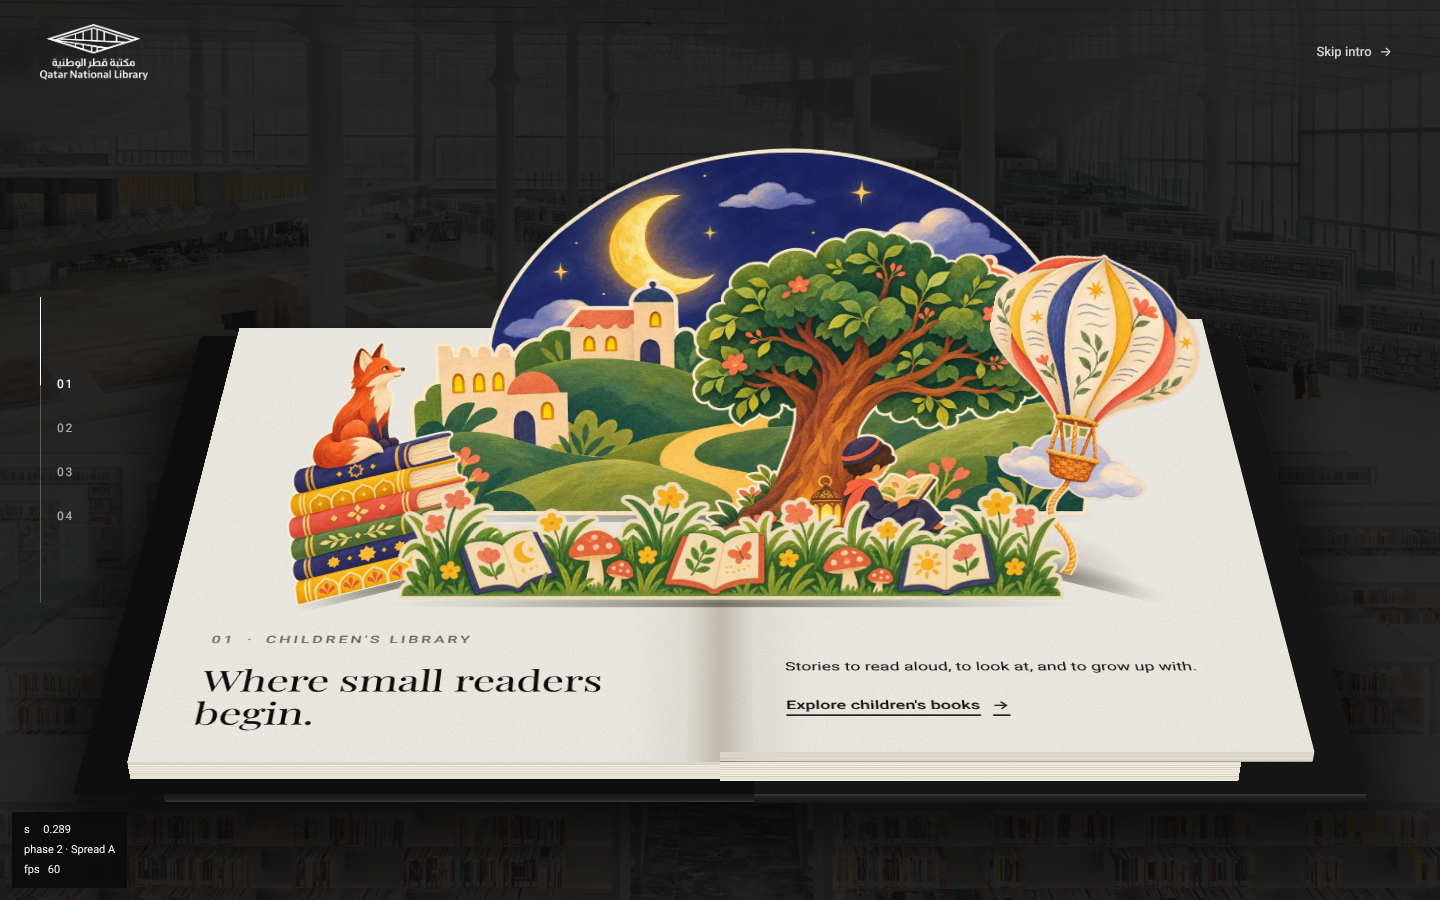
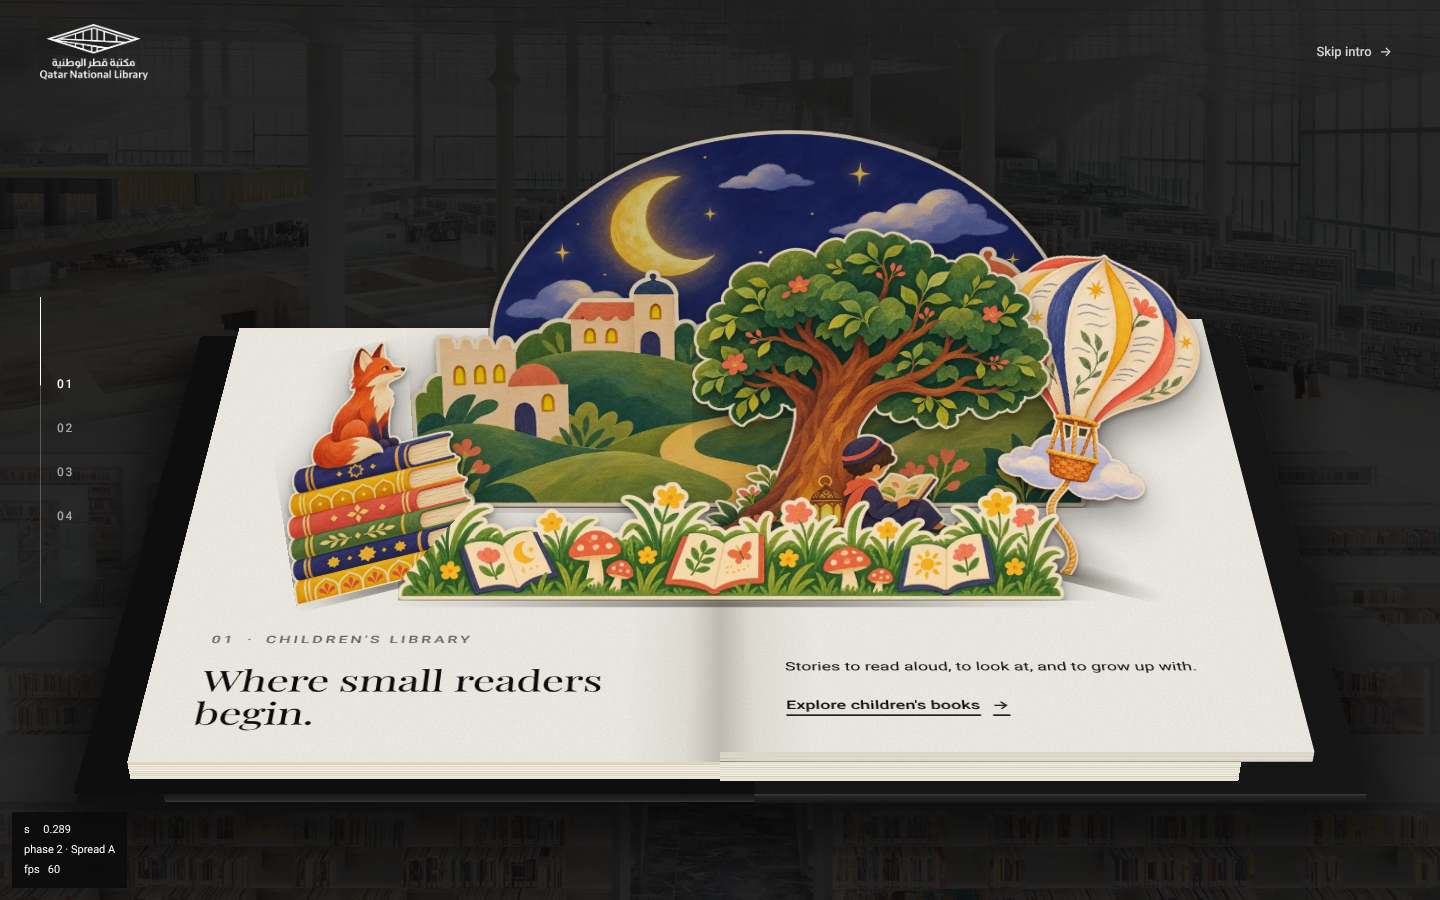
Layer depth: inter-layer shadows and back-to-front shading; Spread B artwork
Claude-Session: https://claude.ai/code/session_01NJhkhHsdtjkGgkng91Ef6F

Changed region(s): [[0.2188, 0.1244, 0.8438, 0.6844], [0.1875, 0.4978, 0.2188, 0.5911]]

diff --git a/src/data/spreads.ts b/src/data/spreads.ts
@@ -49,7 +49,8 @@ export interface Spread {
 }
 
 /** height / width of each supplied artwork file after trimming (printed by `npm run assets`) */
-const R = { A1: 797 / 1200, A2: 519 / 1200, A3: 659 / 660, A4: 900 / 680, A5: 1200 / 725, A6: 214 / 1200 }
+const R = { A1: 797 / 1200, A2: 519 / 1200, A3: 659 / 660, A4: 900 / 680, A5: 1200 / 725, A6: 214 / 1200,
+  B2: 594 / 1200, B3: 1200 / 790, B4: 900 / 677, B5: 780 / 585, B6: 221 / 1200 }
 
 export const spreads: Spread[] = [
   {
@@ -63,8 +64,8 @@ export const spreads: Spread[] = [
     body_ar: null,
     link: { href: '#children', label_en: "Explore children's books", label_ar: null },
     layers: [
-      { src: '/popups/spreadA-layer1.webp', base: 0.45, x: 0.12, w: 1.1, ratio: R.A1, stand: 88, mobile: true },
-      { src: '/popups/spreadA-layer2.webp', base: 0.51, x: 0.06, w: 1.26, ratio: R.A2, stand: 84 },
+      { src: '/popups/spreadA-layer1.webp', base: 0.4, x: 0.12, w: 1.1, ratio: R.A1, stand: 88, mobile: true },
+      { src: '/popups/spreadA-layer2.webp', base: 0.49, x: 0.06, w: 1.26, ratio: R.A2, stand: 84 },
       { src: '/popups/spreadA-layer3.webp', base: 0.58, x: 0.27, w: 0.64, ratio: R.A3, stand: 82, mobile: true },
       { src: '/popups/spreadA-layer4.webp', base: 0.64, x: -0.6, w: 0.36, ratio: R.A4, stand: 80, yaw: -22 },
       { src: '/popups/spreadA-layer5.webp', base: 0.64, x: 0.62, w: 0.38, ratio: R.A5, stand: 80, yaw: 22 },
@@ -91,9 +92,12 @@ export const spreads: Spread[] = [
       lines_ar: null,
     },
     layers: [
-      { src: '/popups/spreadB-layer1.svg', base: 0.45, x: 0.1, w: 1.12, ratio: 420 / 880, stand: 86, mobile: true },
-      { src: '/popups/spreadB-layer2.svg', base: 0.54, x: -0.12, w: 0.63, ratio: 300 / 440, stand: 76, mobile: true },
-      { src: '/popups/spreadB-layer3.svg', base: 0.61, x: 0.2, w: 0.43, ratio: 340 / 320, stand: 72 },
+      // layer 1 (shelf-wall backdrop) not yet supplied
+      { src: '/popups/spreadB-layer2.webp', base: 0.42, x: 0.06, w: 1.2, ratio: R.B2, stand: 86, mobile: true },
+      { src: '/popups/spreadB-layer3.webp', base: 0.52, x: 0.1, w: 0.46, ratio: R.B3, stand: 82, mobile: true },
+      { src: '/popups/spreadB-layer4.webp', base: 0.58, x: -0.6, w: 0.36, ratio: R.B4, stand: 80, yaw: -22 },
+      { src: '/popups/spreadB-layer5.webp', base: 0.58, x: 0.64, w: 0.38, ratio: R.B5, stand: 80, yaw: 22 },
+      { src: '/popups/spreadB-layer6.webp', base: 0.63, x: 0.02, w: 1.2, ratio: R.B6, stand: 58 },
     ],
     bgPaper: '#f4f1ea',
   },

diff --git a/src/components/Book/PopUpLayer.tsx b/src/components/Book/PopUpLayer.tsx
@@ -1,6 +1,6 @@
 import { useContext } from 'react'
 import type { PopUpLayerDef } from '../../data/spreads'
-import { M, PH, PW } from './geometry'
+import { M, PH, PW, S } from './geometry'
 import { MirrorContext } from './Slab'
 
 export interface PopUpNodes {
@@ -17,7 +17,7 @@ export interface PopUpNodes {
  * lies flat on the page and stands as the spread opens, plus its shadow on the
  * paper. Book drives both through `register`.
  */
-export function PopUpLayer({ def, load, register }: { def: PopUpLayerDef; load: boolean; register: (n: PopUpNodes | null) => void }) {
+export function PopUpLayer({ def, depth, load, register }: { def: PopUpLayerDef; depth: number; load: boolean; register: (n: PopUpNodes | null) => void }) {
   const mirrored = useContext(MirrorContext)
   const w = def.w * PW
   const h = w * def.ratio
@@ -46,7 +46,7 @@ export function PopUpLayer({ def, load, register }: { def: PopUpLayerDef; load: 
       <div
         ref={(el) => { layer = el; sync() }}
         className="absolute"
-        style={{ left, top: foldY - h, width: w, height: h, transformOrigin: 'bottom center', opacity: 0 }}
+        style={{ left, top: foldY - h, width: w, height: h, transformOrigin: 'bottom center', opacity: 0, clipPath: 'inset(-200px -200px 0 -200px)' }}
       >
         <img
           src={load ? def.src : undefined}
@@ -54,7 +54,13 @@ export function PopUpLayer({ def, load, register }: { def: PopUpLayerDef; load: 
           decoding="async"
           draggable={false}
           className="block h-full w-full"
-          style={mirrored ? { transform: 'scaleX(-1)' } : undefined}
+          style={{
+            transform: mirrored ? 'scaleX(-1)' : undefined,
+            // Depth between layers: each cut-out throws a soft shadow onto whatever stands
+            // behind it, and layers further back sit slightly in shade. Static, so it is
+            // rasterised once and costs nothing during the scrub.
+            filter: `drop-shadow(0 ${3 * S}px ${2 * S}px rgba(12,8,2,.38)) drop-shadow(0 ${12 * S}px ${14 * S}px rgba(12,8,2,.42)) brightness(${0.8 + 0.2 * depth})`,
+          }}
         />
       </div>
     </>

diff --git a/src/components/Book/Book.tsx b/src/components/Book/Book.tsx
@@ -235,6 +235,7 @@ export const Book = forwardRef<BookHandle, { pose: BookPose; loadUpTo?: number }
                     <PopUpLayer
                       key={def.src}
                       def={def}
+                      depth={sp.layers.length > 1 ? j / (sp.layers.length - 1) : 1}
                       load={i <= loadUpTo}
                       register={(n) => { pops.current[i][j] = n! }}
                     />
